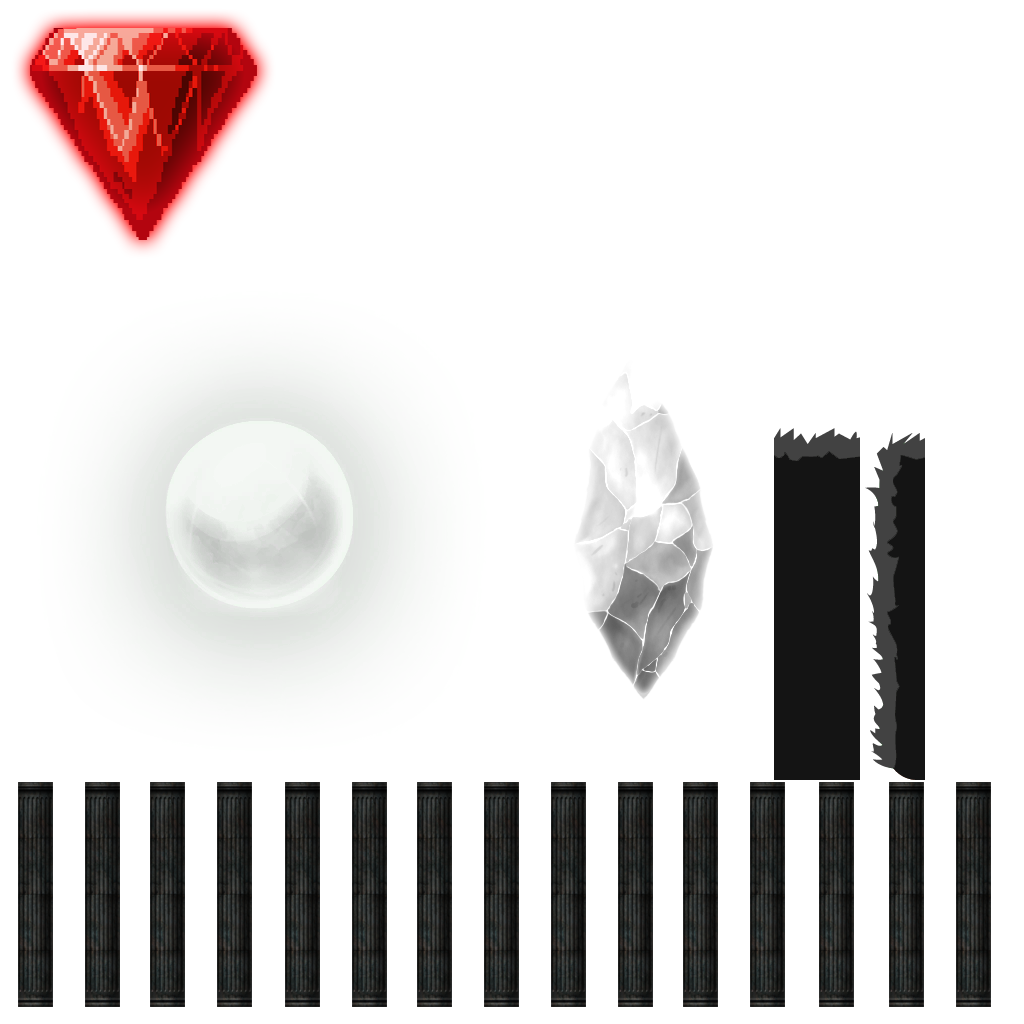
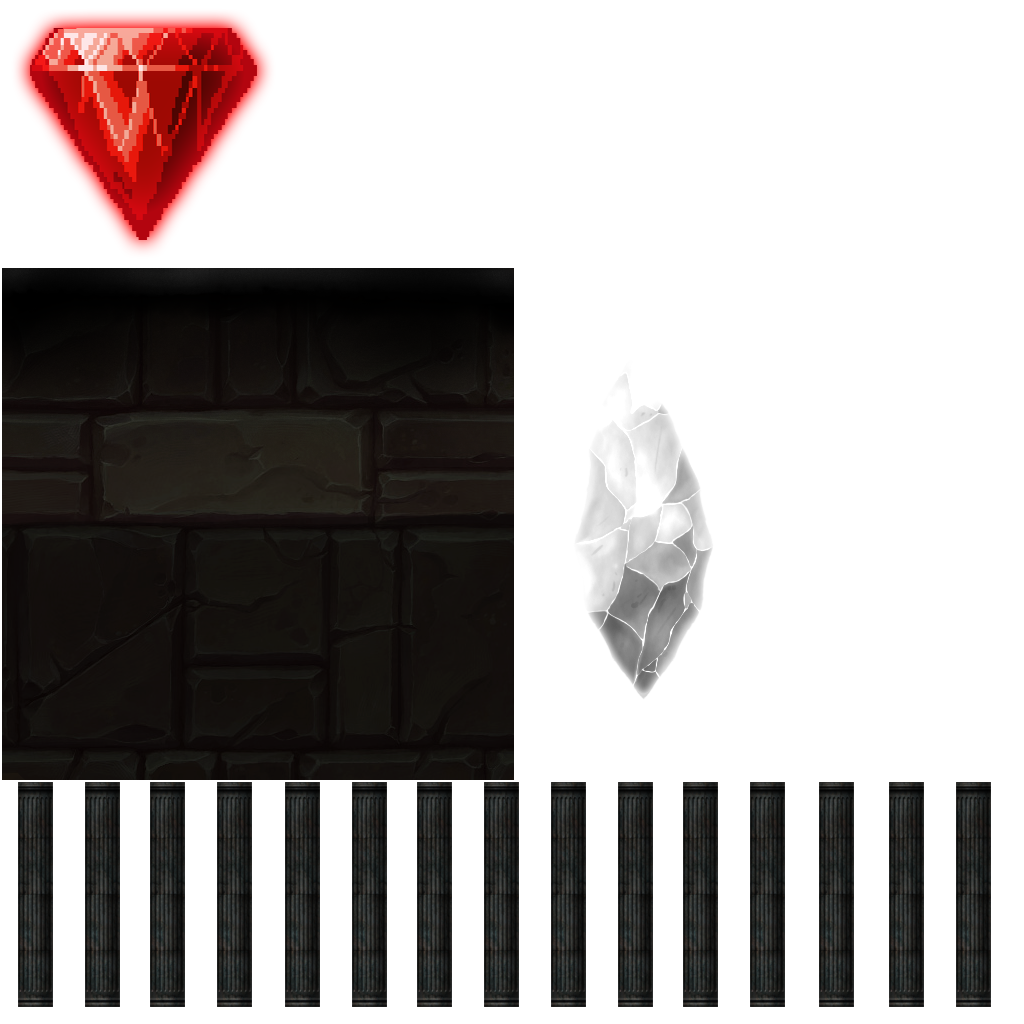
Replaced the rocks and how they're generated in the level. Now they look nicer. Also modified the level image to be more "full" (no void space seen when in the level).

Changed region(s): [[0.0, 0.25, 0.5, 0.7812], [0.75, 0.4062, 0.9062, 0.7812]]

diff --git a/core/src/com/packtpub/libgdx/light/game/objects/DarkRock.java b/core/src/com/packtpub/libgdx/light/game/objects/DarkRock.java
@@ -21,6 +21,7 @@ public class DarkRock extends AbstractGameObject {
 
 	private TextureRegion regEdge;
 	private TextureRegion regMiddle;
+	private TextureRegion regDarkRock;
 	
 	private int length;
 
@@ -40,6 +41,7 @@ public class DarkRock extends AbstractGameObject {
 		//dimension.set(1, 1.5f);
 		dimension.set(1.0f, 1.0f);
 
+		regDarkRock = Assets.instance.rock.darkRock;
 		regEdge = Assets.instance.rock.edge;// set edge assets
 		regMiddle = Assets.instance.rock.middle; // set middle assets
 
@@ -78,28 +80,34 @@ public class DarkRock extends AbstractGameObject {
 		float relX = 0;
 		float relY = 0;
 
-		// Draw left edge
-		reg = regEdge;
-		relX -= dimension.x / 4;
-		batch.draw(reg.getTexture(), position.x + relX, position.y + relY, origin.x, origin.y, dimension.x / 4 + 0.01f,
-				dimension.y, scale.x, scale.y, rotation, reg.getRegionX(), reg.getRegionY(), reg.getRegionWidth(),
-				reg.getRegionHeight(), false, false);
-
-		// Draw middle
-		relX = 0;
-		reg = regMiddle;
-		for (int i = 0; i < length; i++) {
-			batch.draw(reg.getTexture(), position.x + relX, position.y + relY, origin.x, origin.y, dimension.x + 0.01f,
-					dimension.y, scale.x, scale.y, rotation, reg.getRegionX(), reg.getRegionY(), reg.getRegionWidth(),
-					reg.getRegionHeight(), false, false);
-			relX += dimension.x;
-		}
-
-		// Draw right edge
-		reg = regEdge;
-		batch.draw(reg.getTexture(), position.x + relX, position.y + relY, origin.x + dimension.x / 8, origin.y,
-				dimension.x / 4, dimension.y, scale.x, scale.y, rotation, reg.getRegionX(), reg.getRegionY(),
-				reg.getRegionWidth(), reg.getRegionHeight(), true, false);
+		reg = regDarkRock;
+		batch.draw(reg.getTexture(), position.x, position.y,
+    			origin.x, origin.y, dimension.x, dimension.y, scale.x, scale.y,
+    			rotation, reg.getRegionX(), reg.getRegionY(),
+    			reg.getRegionWidth(), reg.getRegionHeight(), false, false);
+		
+//		// Draw left edge
+//		reg = regEdge;
+//		relX -= dimension.x / 4;
+//		batch.draw(reg.getTexture(), position.x + relX, position.y + relY, origin.x, origin.y, dimension.x / 4 + 0.01f,
+//				dimension.y, scale.x, scale.y, rotation, reg.getRegionX(), reg.getRegionY(), reg.getRegionWidth(),
+//				reg.getRegionHeight(), false, false);
+//
+//		// Draw middle
+//		relX = 0;
+//		reg = regMiddle;
+//		for (int i = 0; i < length; i++) {
+//			batch.draw(reg.getTexture(), position.x + relX, position.y + relY, origin.x, origin.y, dimension.x + 0.01f,
+//					dimension.y, scale.x, scale.y, rotation, reg.getRegionX(), reg.getRegionY(), reg.getRegionWidth(),
+//					reg.getRegionHeight(), false, false);
+//			relX += dimension.x;
+//		}
+//
+//		// Draw right edge
+//		reg = regEdge;
+//		batch.draw(reg.getTexture(), position.x + relX, position.y + relY, origin.x + dimension.x / 8, origin.y,
+//				dimension.x / 4, dimension.y, scale.x, scale.y, rotation, reg.getRegionX(), reg.getRegionY(),
+//				reg.getRegionWidth(), reg.getRegionHeight(), true, false);
 	}
 
 	/**

diff --git a/core/src/com/packtpub/libgdx/light/game/Level.java b/core/src/com/packtpub/libgdx/light/game/Level.java
@@ -110,7 +110,7 @@ public class Level {
 				}
 				// rock
 				else if (BLOCK_TYPE.DARKROCK.sameColor(currentPixel)) {
-					if (lastPixel != currentPixel) {
+					//if (lastPixel != currentPixel) {
 						obj = new DarkRock();
 						// float heightIncreaseFactor = 0.25f;
 						offsetHeight = -2.5f;
@@ -119,9 +119,9 @@ public class Level {
 						obj.position.set(pixelX, baseHeight * obj.dimension.y + offsetHeight);
 						// set the rock then add it to the rocks array
 						darkRocks.add((DarkRock) obj);
-					} else {
-						darkRocks.get(darkRocks.size - 1).increaseLength(1);
-					}
+					//} else {
+					//	darkRocks.get(darkRocks.size - 1).increaseLength(1);
+					//}
 				}
 				// player spawn point
 				else if (BLOCK_TYPE.PLAYER_SPAWNPOINT.sameColor(currentPixel)) {

diff --git a/core/src/com/packtpub/libgdx/light/game/objects/Pillars.java b/core/src/com/packtpub/libgdx/light/game/objects/Pillars.java
@@ -29,7 +29,7 @@ public class Pillars extends AbstractGameObject {
 	// sets the dimensions of the mountains and pulls their assets from
 	// levelDecoration
 	private void init () {
-		dimension.set(10, 40);
+		dimension.set(10, 50);
 		
 		pillars = Assets.instance.levelDecoration.pillars;
 		
@@ -46,7 +46,7 @@ public class Pillars extends AbstractGameObject {
 		
 		// mountains span the whole level
 		int mountainLength = 0;
-		mountainLength += MathUtils.ceil(length / (2 * dimension.x) * (1 - parallaxSpeedX));
+		mountainLength += MathUtils.ceil(length/* / (2 * dimension.x) */* (1 - parallaxSpeedX));
 		mountainLength += MathUtils.ceil(0.5f + offsetX);
 		for (int i = 0; i < mountainLength; i++) {
 			// mountain left

diff --git a/core/src/com/packtpub/libgdx/light/game/Assets.java b/core/src/com/packtpub/libgdx/light/game/Assets.java
@@ -92,10 +92,12 @@ public class Assets implements Disposable, AssetErrorListener {
 	public class AssetRock {
 		public final AtlasRegion edge;
 		public final AtlasRegion middle;
+		public final AtlasRegion darkRock;
 
 		public AssetRock (TextureAtlas atlas) {
 			edge = atlas.findRegion("rock_edge");
 			middle = atlas.findRegion("rock_middle");
+			darkRock = atlas.findRegion("dark_rock");
 		}
 	}
 
